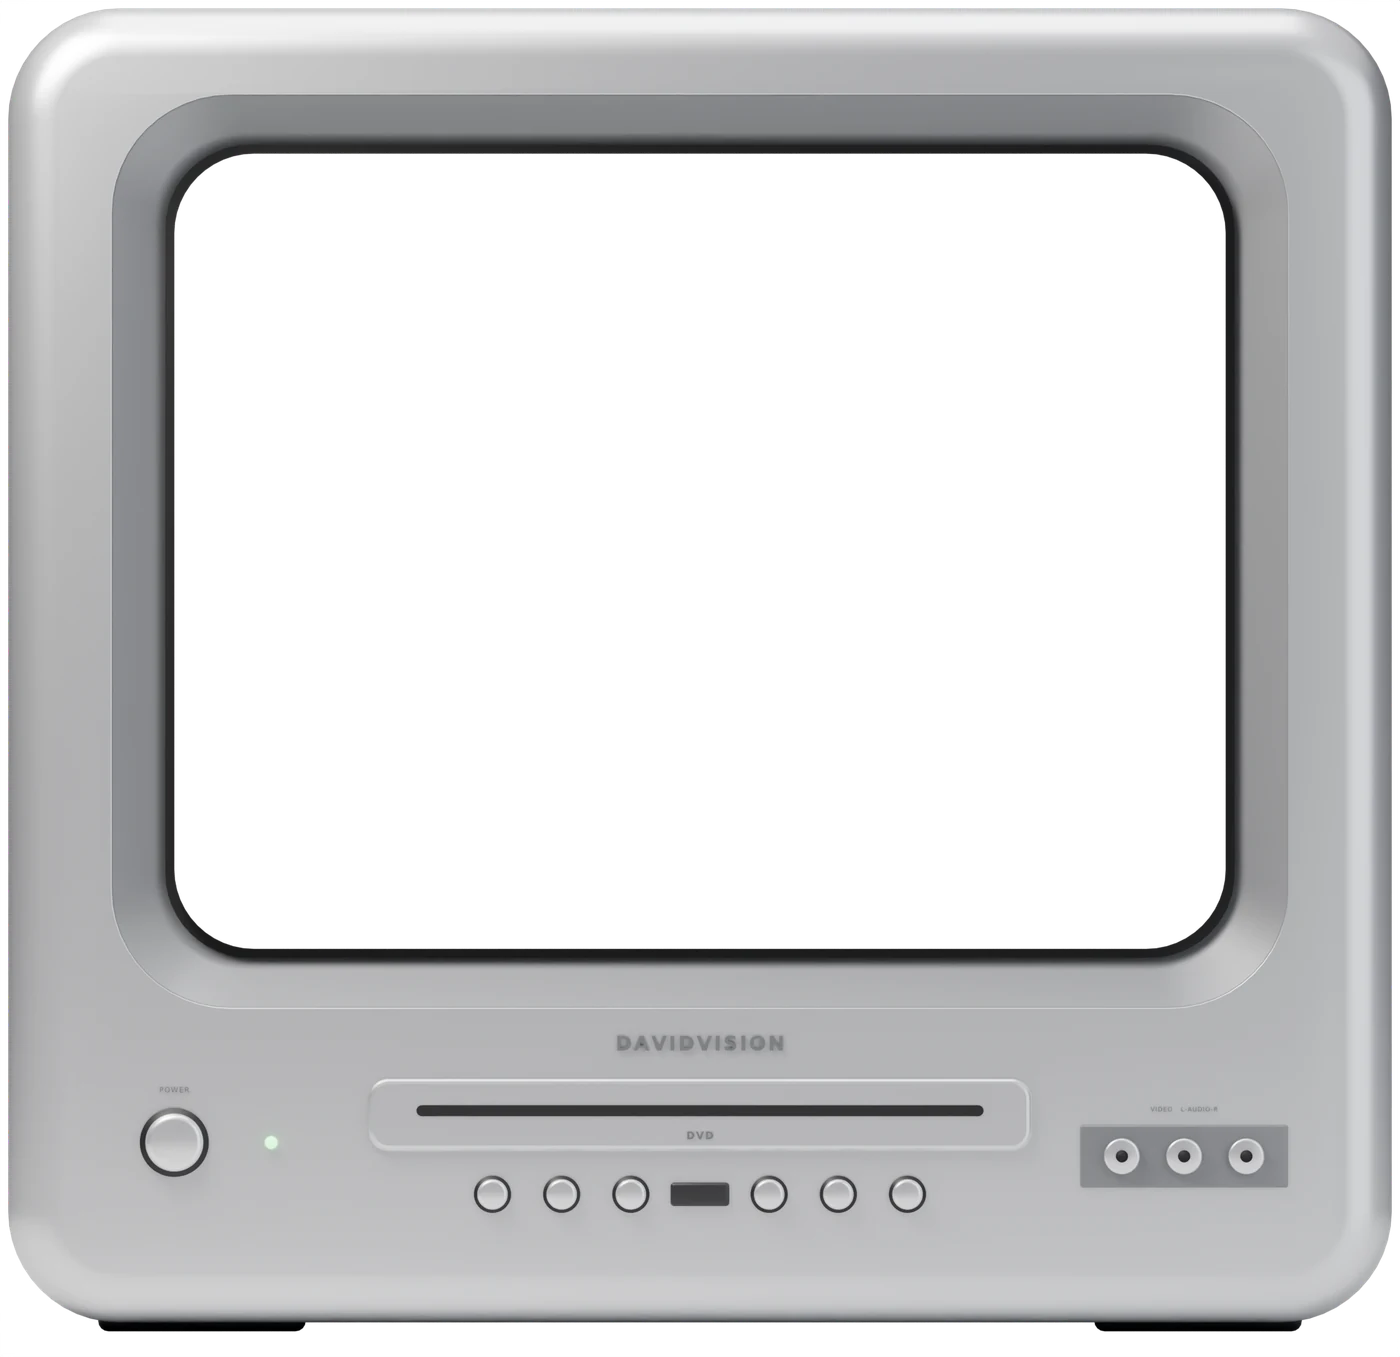
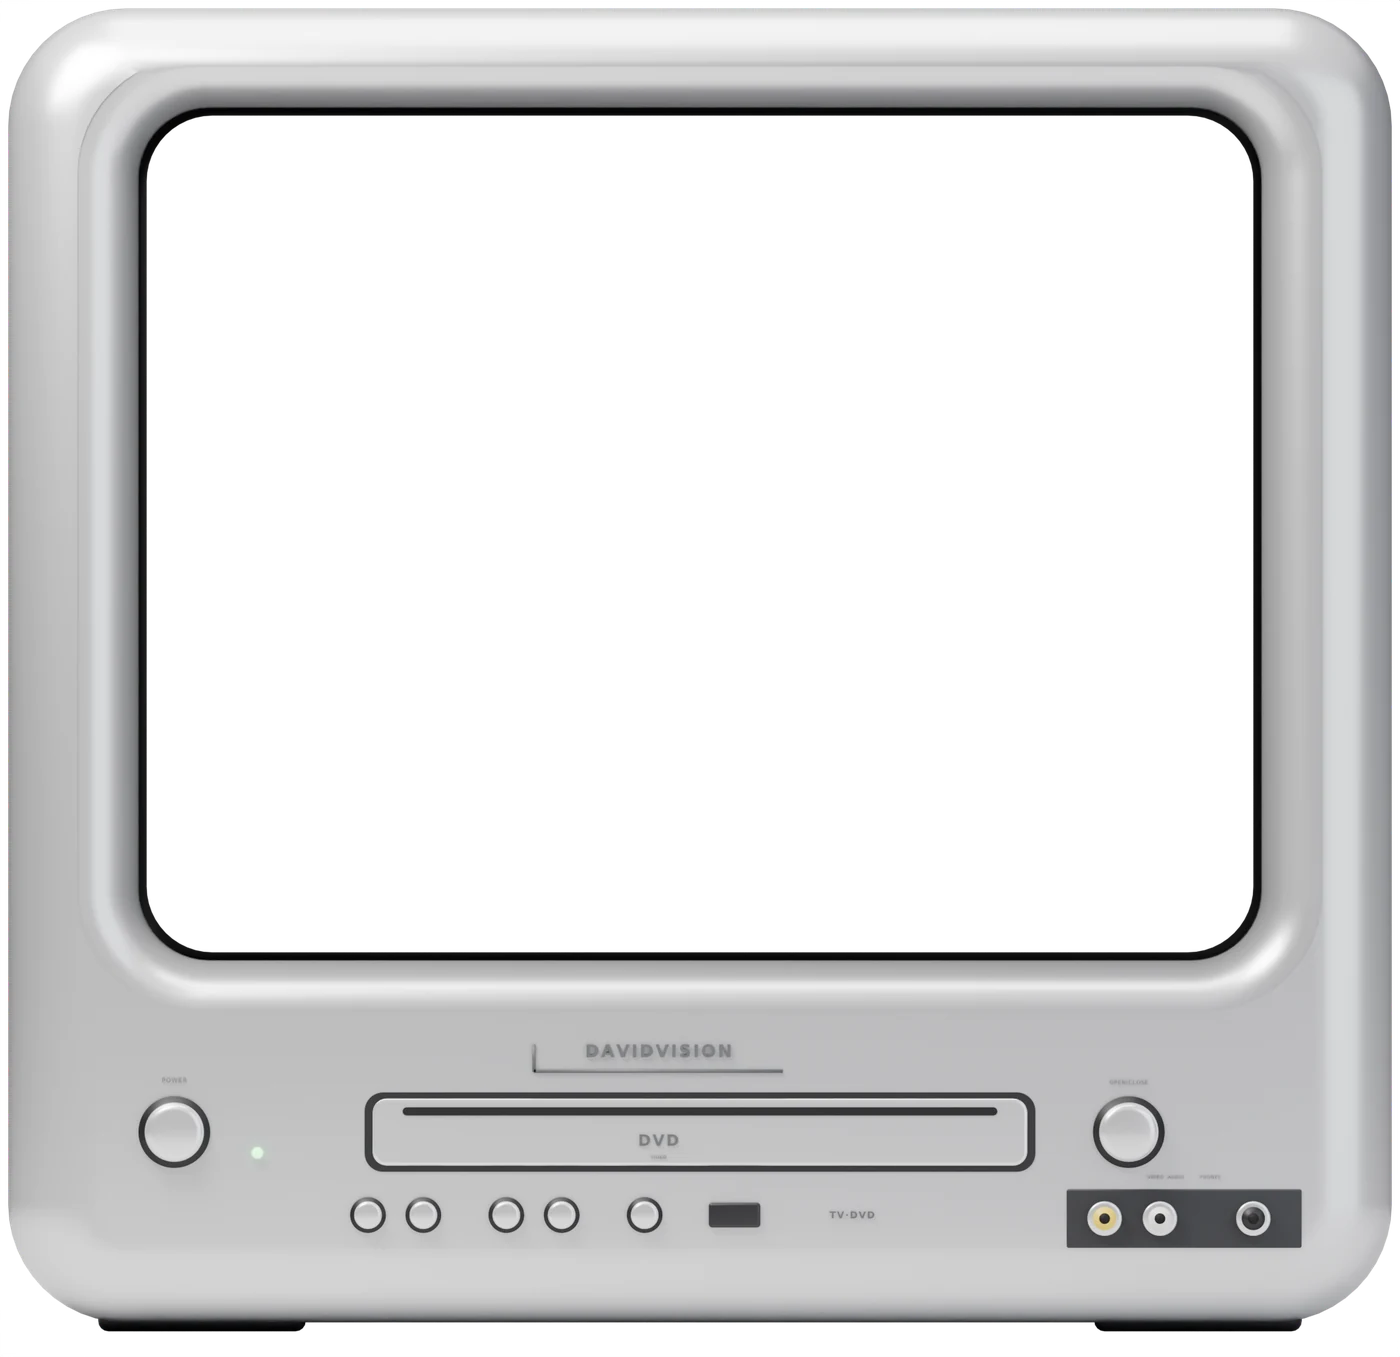
Restyle the TV after a Magnavox 13-inch TV/DVD combo
Bigger screen in a pillowy bezel that rolls into the tube, a seam between
the front and back shells, and a Magnavox-style control deck: brand on an
L rule, outlined DVD loader, big power and open/close buttons, paired small
buttons with an IR window, and a dark AV panel with yellow/white jacks.
Re-rendered the site frame and desk scenes and re-measured the screen.

Claude-Session: https://claude.ai/code/session_015thBKB6X8zqKZkDvYAUikM

diff --git a/intro.js b/intro.js
@@ -6,7 +6,7 @@
   if (!root.classList.contains('intro-on')) return;
 
   // Measured from the renders by scripts/build_scene.py (0..1 of the image).
-  const SCENES = /* SCENES */ {"desk":{"src":"tv/scene-desk.webp","mask":"tv/scene-desk-mask.png","width":1920,"height":1080,"screen":[[0.33973,0.3359],[0.47793,0.31775],[0.47839,0.52894],[0.34341,0.56852]],"tv":[0.23209,0.27113,0.50192,0.68577]},"phone":{"src":"tv/scene-phone.webp","mask":"tv/scene-phone-mask.png","width":1080,"height":1920,"screen":[[0.26946,0.3669],[0.51654,0.35594],[0.51593,0.46939],[0.27898,0.49247]],"tv":[0.10736,0.32899,0.55876,0.55496]}};
+  const SCENES = /* SCENES */ {"desk":{"src":"tv/scene-desk.webp","mask":"tv/scene-desk-mask.png","width":1920,"height":1080,"screen":[[0.3349,0.32484],[0.48053,0.3069],[0.48096,0.52861],[0.3389,0.57032]],"tv":[0.23209,0.2726,0.50192,0.68577]},"phone":{"src":"tv/scene-phone.webp","mask":"tv/scene-phone-mask.png","width":1080,"height":1920,"screen":[[0.26076,0.36082],[0.52133,0.34996],[0.5205,0.46912],[0.27118,0.49343]],"tv":[0.10736,0.32899,0.55876,0.55496]}};
 
   const intro = document.getElementById('intro');
   const stage = document.getElementById('intro-stage');

diff --git a/tv.css b/tv.css
@@ -3,12 +3,12 @@
 :root {
   --room: #1c1a21;
   /* Screen opening, measured from the render's transparent glass. */
-  --scr-left: 12.45%;
-  --scr-top: 11.346%;
-  --scr-width: 75.1%;
-  --scr-height: 58.587%;
+  --scr-left: 10.45%;
+  --scr-top: 8.51%;
+  --scr-width: 79.1%;
+  --scr-height: 61.681%;
   --tv-aspect: 2000 / 1939;
-  --scr-radius: 6.6% / 8.7%;
+  --scr-radius: 5.2% / 6.8%;
   font-size: clamp(12px, 0.75vw + 9.5px, 16px);
 }
 

diff --git a/scripts/tv_model.py b/scripts/tv_model.py
@@ -12,12 +12,12 @@ import bmesh
 # ---- Dimensions (scene units; body front face at y = -D/2) ----
 W, H, D = 2.0, 1.90, 1.40
 FRONT = -D / 2
-SCR_CZ = 1.115           # screen centre height
-OPEN_W, OPEN_H, OPEN_R = 1.70, 1.32, 0.17    # opening on the bezel face
-IN_W, IN_H, IN_R = 1.54, 1.17, 0.12          # bottom of the sloped lip
-RECESS = 0.11
-GLASS_W, GLASS_H, GLASS_R = 1.52, 1.15, 0.115
-MARGIN_X, MARGIN_TOP, MARGIN_BOT = 0.012, 0.012, 0.05
+SCR_CZ = 1.14            # screen centre height
+OPEN_W, OPEN_H, OPEN_R = 1.80, 1.38, 0.17    # opening on the bezel face
+IN_W, IN_H, IN_R = 1.62, 1.23, 0.10          # bottom of the rolled lip
+RECESS = 0.12
+GLASS_W, GLASS_H, GLASS_R = 1.60, 1.21, 0.095
+SHELL = 0.30             # depth of the front bezel shell (then a seam step)
 
 scene = None
 
@@ -128,12 +128,12 @@ def build(glass_mode="holdout"):
     global scene
     scene = bpy.context.scene
     before = set(scene.objects)
-    SILVER = mat("silver", (0.56, 0.575, 0.60), metallic=0.75, rough=0.34, coat=0.2)
-    SILVER_LT = mat("silver_light", (0.66, 0.67, 0.70), metallic=0.7, rough=0.28, coat=0.3)
+    SILVER = mat("silver", (0.64, 0.65, 0.67), metallic=0.65, rough=0.32, coat=0.35)
+    SILVER_LT = mat("silver_light", (0.74, 0.75, 0.77), metallic=0.6, rough=0.26, coat=0.4)
     DARK = mat("dark", (0.018, 0.018, 0.02), rough=0.45)
     GASKET = mat("gasket", (0.008, 0.008, 0.009), rough=0.6)
     SLOT = mat("slot", (0.004, 0.004, 0.005), rough=0.7)
-    PANEL = mat("panel", (0.16, 0.165, 0.175), metallic=0.4, rough=0.45)
+    PANEL = mat("panel", (0.035, 0.036, 0.04), metallic=0.2, rough=0.5)
     INK = mat("ink", (0.10, 0.105, 0.11), rough=0.5)
     LED = mat("led", (0.2, 0.9, 0.3), emission=(0.25, 1.0, 0.35))
 
@@ -146,14 +146,14 @@ def build(glass_mode="holdout"):
     nt.links.new(ho.outputs[0], outn.inputs["Surface"])
 
 
-    # ---- Body: rounded box with the screen recess cut out ----
+    # ---- Front bezel shell: a pillowy rounded box with the screen recess cut out ----
     body = loft("body", [
-        (FRONT, H / 2, W, H, 0.16),
-        (FRONT + 0.62, H / 2, W, H, 0.16),
+        (FRONT, H / 2, W, H, 0.17),
+        (FRONT + SHELL, H / 2, W, H, 0.17),
     ])
     bev = body.modifiers.new("soft_edges", "BEVEL")
-    bev.width = 0.07
-    bev.segments = 10
+    bev.width = 0.11
+    bev.segments = 14
     bev.limit_method = "ANGLE"
     bev.angle_limit = math.radians(60)
     bpy.context.view_layer.objects.active = body
@@ -161,12 +161,16 @@ def build(glass_mode="holdout"):
     bpy.ops.object.modifier_apply(modifier="soft_edges")
     link(body, SILVER)
 
-    cutter = loft("cutter", [
-        (FRONT - 0.2, SCR_CZ, OPEN_W, OPEN_H, OPEN_R),
-        (FRONT + 0.004, SCR_CZ, OPEN_W, OPEN_H, OPEN_R),
-        (FRONT + RECESS, SCR_CZ, IN_W, IN_H, IN_R),
-        (FRONT + 0.6, SCR_CZ, IN_W, IN_H, IN_R),
-    ])
+    # The opening rolls over a rounded lip down to the tube (convex quarter round).
+    rings = [(FRONT - 0.2, SCR_CZ, OPEN_W, OPEN_H, OPEN_R)]
+    for k in range(9):
+        t = math.radians(90 * k / 8)
+        f = math.sin(t)
+        rings.append((FRONT + 0.002 + RECESS * (1 - math.cos(t)), SCR_CZ,
+                      OPEN_W - (OPEN_W - IN_W) * f, OPEN_H - (OPEN_H - IN_H) * f,
+                      OPEN_R - (OPEN_R - IN_R) * f))
+    rings.append((FRONT + SHELL + 0.2, SCR_CZ, IN_W, IN_H, IN_R))
+    cutter = loft("cutter", rings)
     boo = body.modifiers.new("recess", "BOOLEAN")
     boo.operation = "DIFFERENCE"
     boo.object = cutter
@@ -174,22 +178,28 @@ def build(glass_mode="holdout"):
     bpy.ops.object.modifier_apply(modifier="recess")
     cutter.hide_render = True
     cutter.hide_viewport = True
-
-    # Soften the lip where the bezel turns into the recess.
-    lip = body.modifiers.new("lip", "BEVEL")
-    lip.width = 0.012
-    lip.segments = 4
-    lip.limit_method = "ANGLE"
-    lip.angle_limit = math.radians(20)
     bpy.ops.object.shade_smooth()
     for poly in body.data.polygons:
         poly.use_smooth = True
     try:
-        body.data.set_sharp_from_angle(angle=math.radians(35))
+        body.data.set_sharp_from_angle(angle=math.radians(40))
     except Exception:
         pass
 
-    # ---- Black gasket and the convex glass (holdout = transparent) ----
+    # Back shell, a step smaller than the bezel so the seam reads from the side.
+    back = loft("back_shell", [
+        (FRONT + SHELL - 0.02, H / 2, W - 0.05, H - 0.05, 0.15),
+        (FRONT + 0.62, H / 2, W - 0.05, H - 0.05, 0.15),
+    ])
+    bb = back.modifiers.new("b", "BEVEL"); bb.width = 0.06; bb.segments = 8
+    bb.limit_method = "ANGLE"
+    bpy.ops.object.select_all(action="DESELECT")
+    bpy.context.view_layer.objects.active = back
+    back.select_set(True)
+    bpy.ops.object.shade_smooth()
+    link(back, SILVER)
+
+    # ---- Black gasket and the glass (holdout = transparent) ----
     gasket = loft("gasket", [
         (FRONT + RECESS - 0.004, SCR_CZ, IN_W + 0.02, IN_H + 0.02, IN_R),
         (FRONT + RECESS + 0.05, SCR_CZ, IN_W + 0.02, IN_H + 0.02, IN_R),
@@ -207,49 +217,62 @@ def build(glass_mode="holdout"):
     scene.collection.objects.link(glass)
     link(glass, HOLDOUT)
 
-    # ---- Lower deck ----
-    DECK_TOP = SCR_CZ - OPEN_H / 2      # 0.455
+    # ---- Lower deck, laid out like a Magnavox 13" TV/DVD ----
+    DECK_TOP = SCR_CZ - OPEN_H / 2      # 0.46
     fz = FRONT - 0.0005
+    lx = -0.06                          # loader centre
 
-    text("brand", "DAVIDVISION", 0.046, (0, fz - 0.002, DECK_TOP - 0.052), INK, extrude=0.003)
+    # Brand on a little L-shaped rule above the loader.
+    text("brand", "DAVIDVISION", 0.040, (lx, fz - 0.002, DECK_TOP - 0.058), INK, extrude=0.003)
+    box("rule_h", (0.36, 0.004, 0.005), (lx, fz - 0.001, DECK_TOP - 0.087), INK)
+    box("rule_v", (0.005, 0.004, 0.04), (lx - 0.18, fz - 0.001, DECK_TOP - 0.068), INK)
 
-    # DVD loader: raised rounded plate with a dark slot and a tiny logo.
-    slot_z = DECK_TOP - 0.155
-    plate = loft("slot_plate", [
-        (fz - 0.012, slot_z, 0.96, 0.105, 0.03),
-        (fz + 0.02, slot_z, 0.96, 0.105, 0.03),
+    # DVD loader: dark outline, a recessed tray face with the slot and logo.
+    slot_z = DECK_TOP - 0.175
+    outline = loft("loader_outline", [
+        (fz - 0.001, slot_z, 0.97, 0.115, 0.027),
+        (fz + 0.01, slot_z, 0.97, 0.115, 0.027),
     ])
-    pb = plate.modifiers.new("b", "BEVEL"); pb.width = 0.008; pb.segments = 3
-    link(plate, SILVER)
+    link(outline, DARK)
+    tray = loft("loader_tray", [
+        (fz - 0.003, slot_z, 0.95, 0.10, 0.022),
+        (fz + 0.02, slot_z, 0.95, 0.10, 0.022),
+    ])
+    tb = tray.modifiers.new("b", "BEVEL"); tb.width = 0.006; tb.segments = 3
+    link(tray, SILVER_LT)
     slot = loft("slot", [
-        (fz - 0.0135, slot_z + 0.006, 0.82, 0.016, 0.008),
-        (fz - 0.010, slot_z + 0.006, 0.82, 0.016, 0.008),
+        (fz - 0.0045, slot_z + 0.030, 0.86, 0.012, 0.006),
+        (fz - 0.0025, slot_z + 0.030, 0.86, 0.012, 0.006),
     ])
     link(slot, SLOT)
-    text("dvd_logo", "DVD", 0.024, (0, fz - 0.0135, slot_z - 0.030), INK, extrude=0.0008)
+    text("dvd_logo", "DVD", 0.036, (lx, fz - 0.0045, slot_z - 0.012), INK, extrude=0.001)
+    text("dvd_sub", "VIDEO", 0.011, (lx, fz - 0.0045, slot_z - 0.036), INK, extrude=0.0005, font_bold=False)
 
-    # Button row under the loader.
-    btn_z = slot_z - 0.115
-    for i, x in enumerate([-0.30, -0.20, -0.10, 0.0, 0.10, 0.20, 0.30]):
-        if i == 3:
-            box("ir_window", (0.085, 0.01, 0.034), (x, fz - 0.004, btn_z), DARK, bevel=0.012)
-            continue
-        cyl(f"btn{i}", 0.022, 0.024, (x, fz - 0.008, btn_z), SILVER_LT, bevel=0.006)
-        cyl(f"btn_ring{i}", 0.027, 0.006, (x, fz - 0.001, btn_z), DARK)
+    # Big round power (left) and open/close (right) buttons beside the loader.
+    for name, x in (("power", -0.76), ("eject", 0.62)):
+        cyl(f"{name}_ring", 0.052, 0.006, (x, fz - 0.001, slot_z), DARK)
+        cyl(name, 0.043, 0.032, (x, fz - 0.013, slot_z), SILVER_LT, bevel=0.012)
+    text("power_lbl", "POWER", 0.015, (-0.76, fz - 0.002, slot_z + 0.075), INK, extrude=0.0005, font_bold=False)
+    text("eject_lbl", "OPEN/CLOSE", 0.013, (0.62, fz - 0.002, slot_z + 0.072), INK, extrude=0.0005, font_bold=False)
+    cyl("led", 0.008, 0.01, (-0.64, fz - 0.003, slot_z - 0.03), LED)
 
-    # Power button + standby LED on the left.
-    cyl("power_ring", 0.050, 0.006, (-0.76, fz - 0.001, slot_z - 0.04), DARK)
-    cyl("power", 0.042, 0.03, (-0.76, fz - 0.012, slot_z - 0.04), SILVER_LT, bevel=0.01)
-    cyl("led", 0.009, 0.01, (-0.62, fz - 0.003, slot_z - 0.04), LED)
-    text("power_lbl", "POWER", 0.018, (-0.76, fz - 0.002, slot_z + 0.036), INK, extrude=0.0005, font_bold=False)
+    # Small buttons in pairs under the loader, then the IR window and a logo.
+    btn_z = slot_z - 0.12
+    for i, x in enumerate([-0.48, -0.40, -0.28, -0.20, -0.08]):
+        cyl(f"btn_ring{i}", 0.026, 0.006, (x, fz - 0.001, btn_z), DARK)
+        cyl(f"btn{i}", 0.020, 0.022, (x, fz - 0.008, btn_z), SILVER_LT, bevel=0.006)
+    box("ir_window", (0.075, 0.01, 0.036), (0.05, fz - 0.004, btn_z), DARK, bevel=0.016)
+    text("tv_logo", "TV·DVD", 0.022, (0.22, fz - 0.002, btn_z), INK, extrude=0.001)
 
-    # AV jacks on the right.
-    jack_z = slot_z - 0.06
-    box("jack_panel", (0.30, 0.006, 0.09), (0.70, fz - 0.002, jack_z), PANEL, bevel=0.025)
-    for j, x in enumerate([0.61, 0.70, 0.79]):
-        cyl(f"jack{j}", 0.026, 0.02, (x, fz - 0.010, jack_z), SILVER_LT, bevel=0.004)
-        cyl(f"jack_hole{j}", 0.009, 0.02, (x, fz - 0.012, jack_z), SLOT)
-    text("av_lbl", "VIDEO   L-AUDIO-R", 0.015, (0.70, fz - 0.002, jack_z + 0.068), INK, extrude=0.0005, font_bold=False)
+    # AV inputs in a dark recessed panel, bottom right.
+    jack_z = btn_z - 0.005
+    box("jack_panel", (0.34, 0.006, 0.085), (0.70, fz - 0.001, jack_z), PANEL, bevel=0.003)
+    for j, (x, ring) in enumerate([(0.585, (0.85, 0.65, 0.05)), (0.665, (0.85, 0.85, 0.82)), (0.80, None)]):
+        ring_mat = mat(f"jack_ring{j}", ring, rough=0.4) if ring else DARK
+        cyl(f"jack{j}", 0.025, 0.02, (x, fz - 0.010, jack_z), SILVER_LT, bevel=0.004)
+        cyl(f"jack_ring{j}", 0.017, 0.022, (x, fz - 0.011, jack_z), ring_mat)
+        cyl(f"jack_hole{j}", 0.008, 0.024, (x, fz - 0.012, jack_z), SLOT)
+    text("av_lbl", "VIDEO  AUDIO        PHONES", 0.011, (0.70, fz - 0.002, jack_z + 0.06), INK, extrude=0.0005, font_bold=False)
 
     # Feet.
     for x in (-0.72, 0.72):

diff --git a/scripts/build_scene.py b/scripts/build_scene.py
@@ -129,7 +129,7 @@ rig, glass = tv_model.build("crt")
 rig.scale = (0.25, 0.25, 0.25)
 # The room light is flatter than the studio the frame was shot in; darken the
 # plastic a touch so it still reads as silver rather than white.
-for name, col in (("silver", (0.40, 0.41, 0.43)), ("silver_light", (0.48, 0.49, 0.51))):
+for name, col in (("silver", (0.46, 0.47, 0.49)), ("silver_light", (0.54, 0.55, 0.57))):
     bpy.data.materials[name].node_tree.nodes["Principled BSDF"].inputs["Base Color"].default_value = (*col, 1)
 rig.rotation_euler = (0, 0, TV_YAW)
 rig.location = (-0.30, 0.04, DESK_TOP - 0.25 * 0.012)
